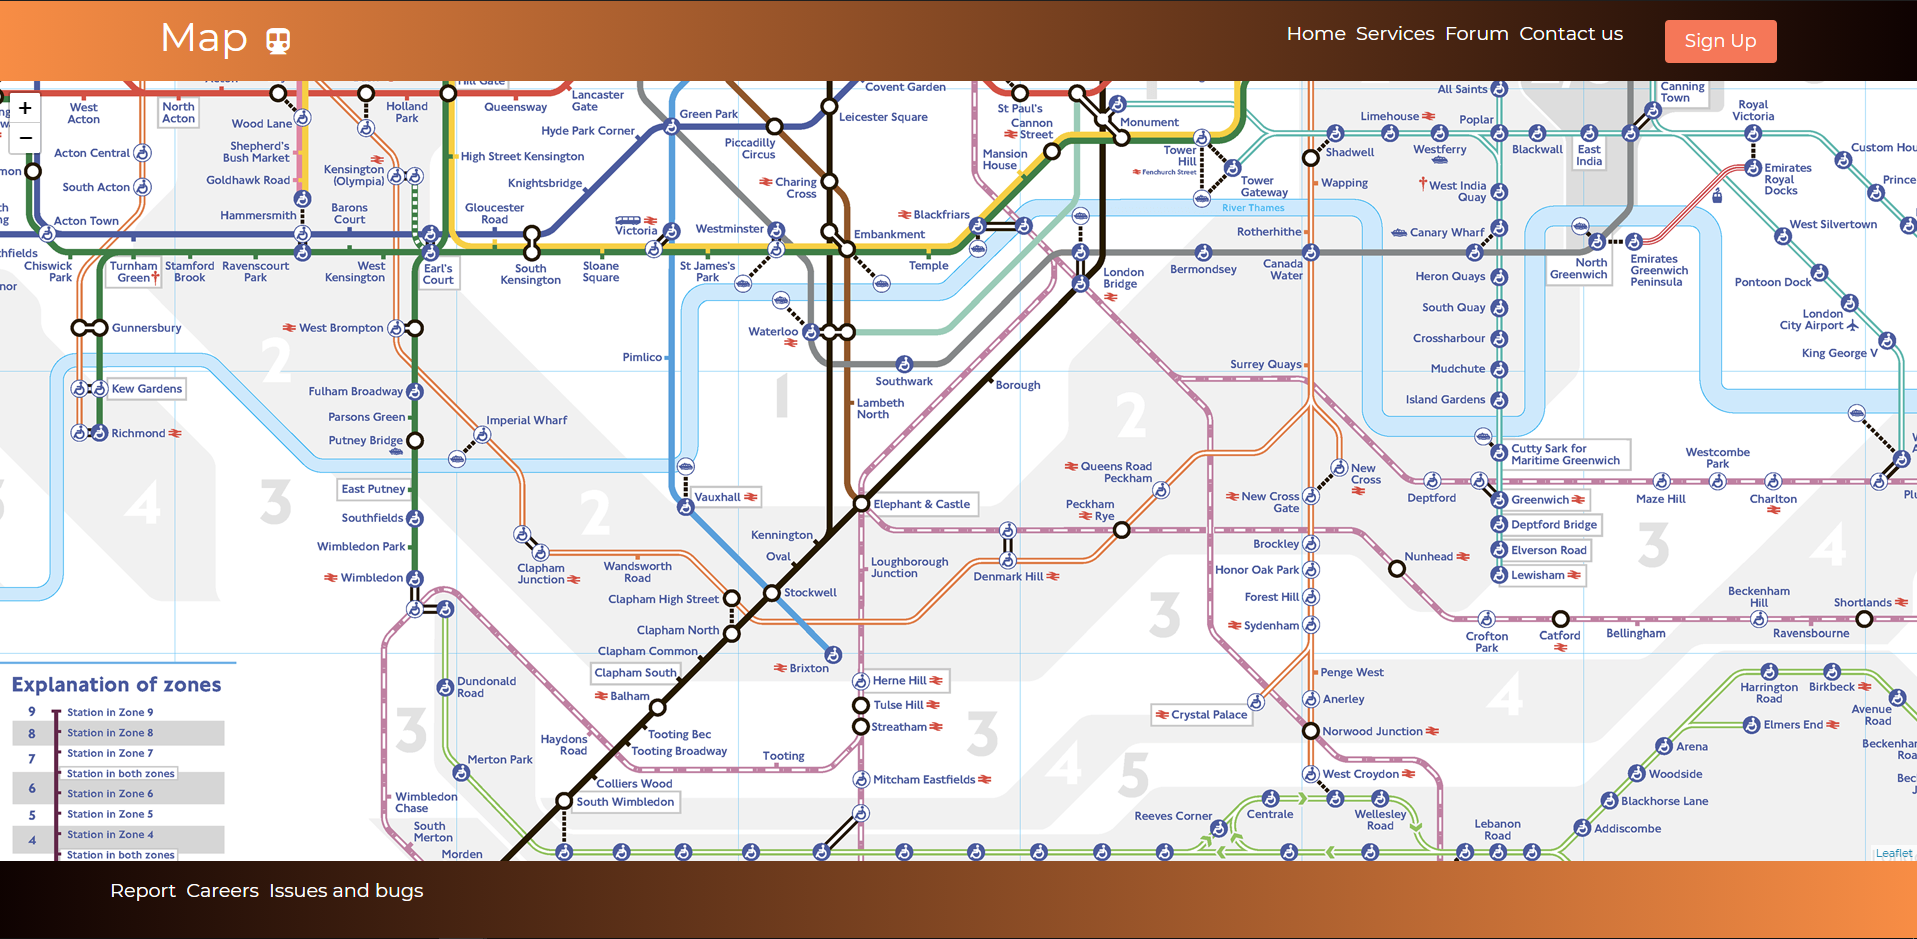
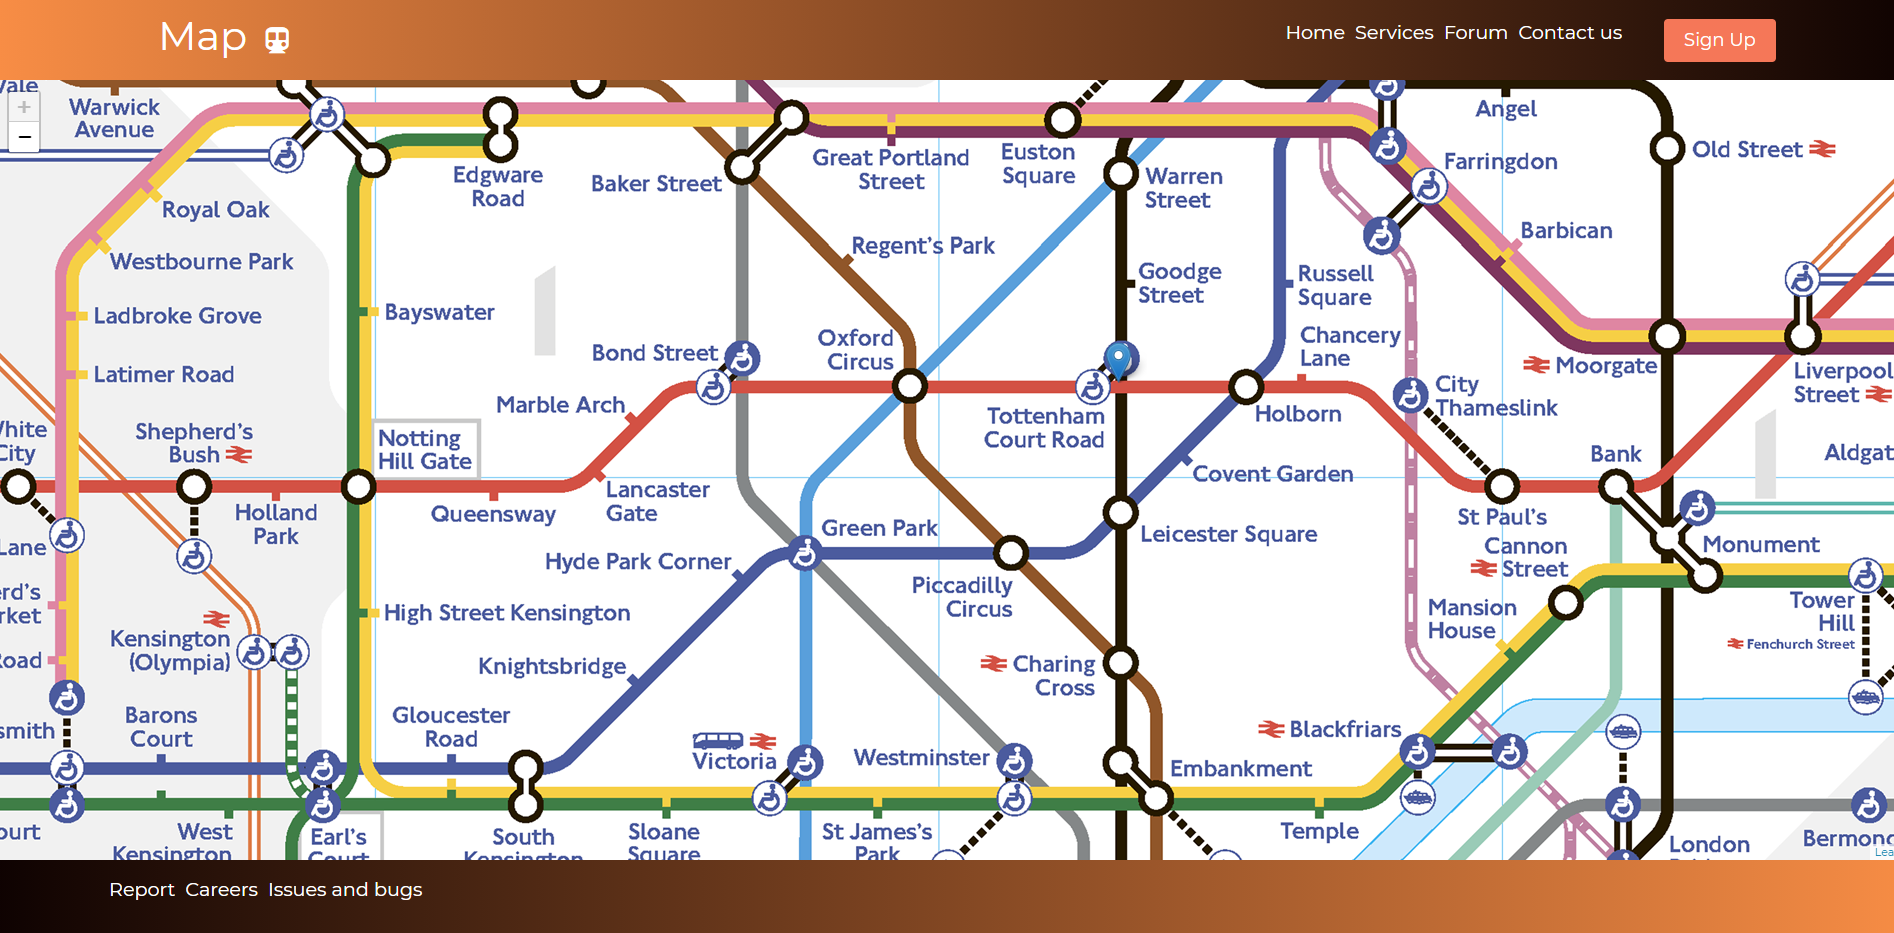
map hover feature fixed

diff --git a/portfolio/script.js b/portfolio/script.js
@@ -1,4 +1,3 @@
-console.log('Its working')
 
 let theme = localStorage.getItem('theme')
 
@@ -40,9 +39,11 @@ function setTheme(mode){
 }
 
 function hover(element) {
-	element.setAttribute('src', 'gif/map.gif');
+	target = document.getElementById('london-map')
+	target.setAttribute('src', 'gif/map.gif');
   }
   
   function unhover(element) {
-	element.setAttribute('src', 'img/map.png');
+	target = document.getElementById('london-map')
+	target.setAttribute('src', 'img/map.png');
   }
